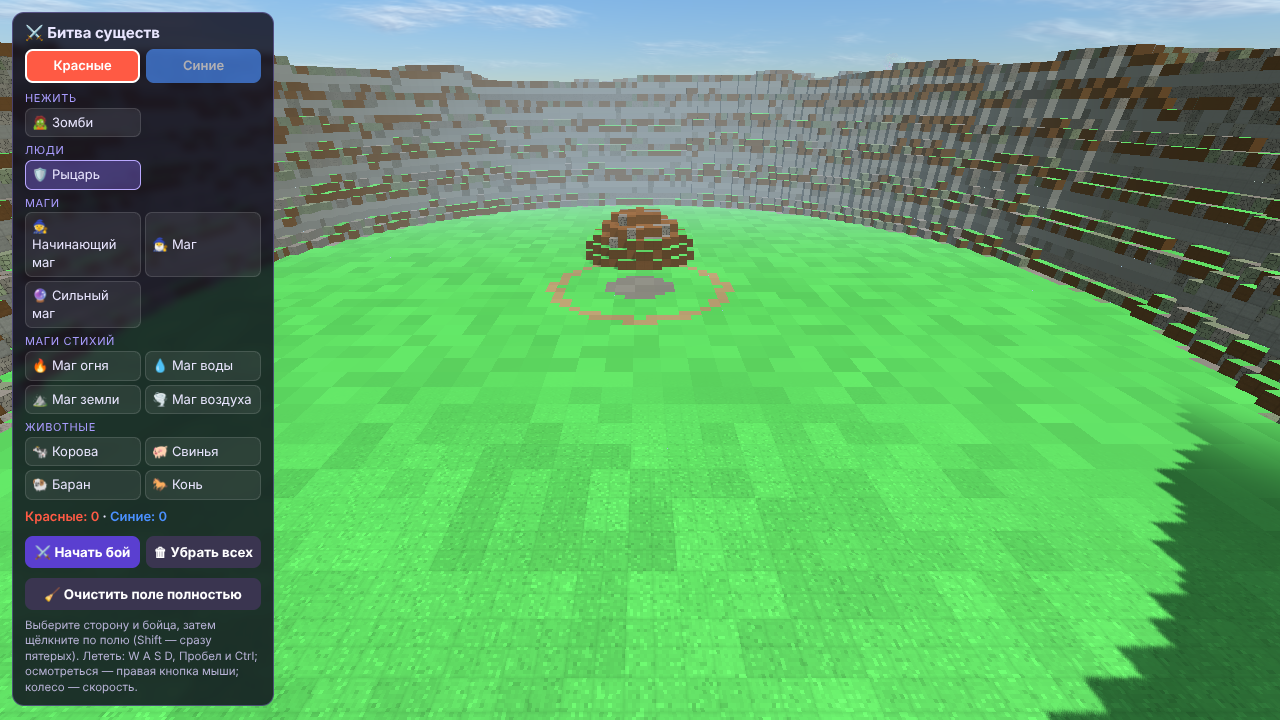
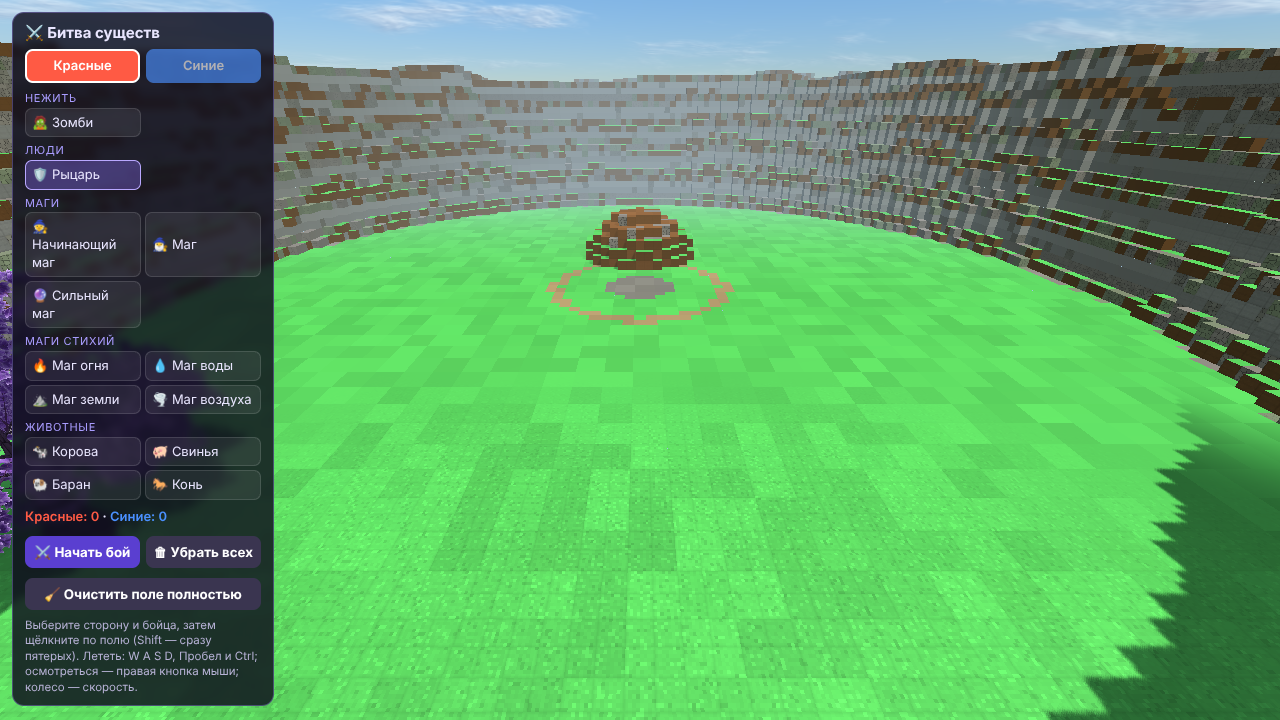
«Битва существ»: команды по сторонам арены с полосой посередине; маги воздуха поднимают и бросают существ; очистка убирает оружие; камера не мутнеет
Claude-Session: https://claude.ai/code/session_01Mpy7coMG4NKgr1SMVKnsCQ

Changed region(s): [[0.0, 0.3667, 0.1562, 0.8556]]

diff --git a/src/game/Brawl.js b/src/game/Brawl.js
@@ -9,7 +9,7 @@
  * Host only in a network game is not a thing here (a map for one); `authority` is always true.
  */
 import * as THREE from 'three';
-import { TEAMS, TEAM_IDS, masterOfTeam, teamOfMaster, fighterDef, BRAWL, pickEnemy, winnerOf, placePoints, foeId, isMage } from './BrawlRules.js';
+import { TEAMS, TEAM_IDS, masterOfTeam, teamOfMaster, fighterDef, BRAWL, pickEnemy, winnerOf, placePoints, foeId, isMage, teamAt } from './BrawlRules.js';
 import { TUTORIAL } from '../world/TutorialLand.js';
 import { elementalLook } from './ElementalTestSites.js';
 import { earthLook } from './EarthMagicRules.js';
@@ -32,6 +32,7 @@ export class Brawl {
         this._elemN = 0; // (…and the elemental mages' in theirs)
         this.onChange = null; // (the panel: counts, state)
         this._makeMarkers();
+        this._strip = null; // (the strip between the teams: made once the ground is there — _makeStrip)
         this._quiet();
     }
 
@@ -106,7 +107,7 @@ export class Brawl {
             zb.setThrall(true);
             zb.thrallOwner = masterOfTeam(team);
             zb.thrallUntil = Infinity;
-            zb.group.rotation.y = team === 'A' ? -Math.PI / 2 : Math.PI / 2;
+            zb.group.rotation.y = team === 'A' ? Math.PI / 2 : -Math.PI / 2; // (facing the other team: A looks to +x)
         } else if (def.kind === 'a') {
             const a = g.animals?._spawn(def.type, new THREE.Vector3(x, y, z), { yaw: team === 'A' ? -Math.PI / 2 : Math.PI / 2 });
             if (!a) { this.why = 'не получилось'; return null; }
@@ -179,7 +180,7 @@ export class Brawl {
      * → what was taken away {fighters, bodies, items, chunks}.
      */
     sweep() {
-        const g = this.game, out = { fighters: this.count(), bodies: 0, items: 0, chunks: 0, fires: 0 };
+        const g = this.game, out = { fighters: this.count(), bodies: 0, items: 0, chunks: 0, fires: 0, weapons: 0 };
         g.falling?.clear?.(); // (the pieces in the air land — then the ground is made again below them)
         out.fires = this._fireOut();
         this.clear();
@@ -196,6 +197,10 @@ export class Brawl {
         const loose = g.items?.loose;
         if (loose) for (const uid of [...loose.keys()]) { g.items.removeLoose(uid); out.items++; }
         out.chunks = g.terrain?.data?.resetModified?.() || 0;
+        this._stripToGround();
+        // (swords, axes, bows, shields lying about — what the knights dropped, what a blast threw: every weapon not held by a hand)
+        out.weapons = 0;
+        for (const w of [...(g.weapons?.weapons || [])]) { if (w.holder || g.fixedWeapons?.includes?.(w.id)) continue; g.weapons.remove(w); out.weapons++; }
         g.terrain?.data?.settling?.clear?.();
         this._changed();
         return out;
@@ -293,6 +298,80 @@ export class Brawl {
         }
     }
 
+    // ----------------------------------------------------------------- the air mage's lift
+    /** (LevitationMaxima.npcPlayer) The air mage `v` lifts the creature `ref` {k, id} of the other team: the game's own hold (Levitation.grab) raised by the wind. → true when taken. */
+    liftCreature(v, ref) {
+        const g = this.game, lev = g.levitation, a = v.elemental;
+        const c = lev?._creature(ref.k, ref.id);
+        if (!c || !a || c.lev || a.carry) return false;
+        if (!lev.grab(ref.k, c, v.id, 'right', 6)) return false;
+        a.carry = { ck: ref.k, c };
+        a.liftAck = true; a.liftHeld = true; // (held: after the time it is THROWN — ElementalMages: liftT, liftHeld)
+        return true;
+    }
+
+    /** (ElementalMages.endLift) The lift ends: `thr` {x, y, z} — the creature is thrown with it (the swing), none — it is let fall. */
+    throwCarried(v, cr, thr) {
+        const c = cr.c, L = c.lev;
+        if (!L || L.by !== v.id) return;
+        if (thr) L.vel.set(thr.x, thr.y, thr.z);
+        this.game.levitation.letGo(cr.ck, c, false);
+    }
+
+    /** (a few times a second) A carried creature that died or got away: the mage's hold ends, no throw. */
+    _watchCarry() {
+        const L = this.game.castleLife;
+        for (const e of this.roster.values()) {
+            if (!e.def.elemental) continue;
+            const v = L?.byId.get(e.id), a = v?.elemental;
+            if (!a?.carry) continue;
+            if (v.dead || !a.carry.c.lev || a.carry.c.lev.by !== v.id) { a.carry = null; a.liftHeld = false; }
+        }
+    }
+
+    // ------------------------------------------------------------------ the strip
+    /**
+     * The strip between the teams, lying on the ground (a ribbon that follows its bumps): a dashed white line in the middle, red on the left
+     * and blue on the right. One mesh, one small texture. Made once the land is there.
+     */
+    _makeStrip() {
+        const g = this.game, W = BRAWL.STRIP, Lz = BRAWL.EDGE * 2 + 6, N = 60;
+        const cv = document.createElement('canvas');
+        cv.width = 128; cv.height = 256;
+        const x = cv.getContext('2d');
+        const gr = x.createLinearGradient(0, 0, 128, 0);
+        gr.addColorStop(0, 'rgba(255,90,68,0.55)'); gr.addColorStop(0.42, 'rgba(255,90,68,0.12)');
+        gr.addColorStop(0.58, 'rgba(74,144,255,0.12)'); gr.addColorStop(1, 'rgba(74,144,255,0.55)');
+        x.fillStyle = gr; x.fillRect(0, 0, 128, 256);
+        x.fillStyle = 'rgba(255,255,255,0.85)';
+        for (let y = 0; y < 256; y += 32) x.fillRect(61, y, 6, 18); // (the dashed line of the middle)
+        x.fillStyle = 'rgba(255,255,255,0.5)';
+        x.fillRect(0, 0, 4, 256); x.fillRect(124, 0, 4, 256); // (the edges)
+        const tex = new THREE.CanvasTexture(cv);
+        tex.wrapT = THREE.RepeatWrapping; tex.repeat.set(1, Lz / 8);
+        tex.anisotropy = 4;
+        const geo = new THREE.PlaneGeometry(W, Lz, 1, N);
+        geo.rotateX(-Math.PI / 2);
+        const pos = geo.attributes.position;
+        for (let i = 0; i < pos.count; i++) pos.setY(i, this.groundAt(pos.getX(i), pos.getZ(i)) + 0.07);
+        pos.needsUpdate = true;
+        const mat = new THREE.MeshBasicMaterial({ map: tex, transparent: true, depthWrite: false, polygonOffset: true, polygonOffsetFactor: -2, side: THREE.DoubleSide, fog: false });
+        const m = new THREE.Mesh(geo, mat);
+        m.frustumCulled = false;
+        m.renderOrder = 4;
+        g.scene.add(m);
+        this._strip = m;
+    }
+
+    /** The ribbon follows the ground again (after the whole field was made clean: the craters are gone). */
+    _stripToGround() {
+        const m = this._strip;
+        if (!m) return;
+        const pos = m.geometry.attributes.position;
+        for (let i = 0; i < pos.count; i++) pos.setY(i, this.groundAt(pos.getX(i), pos.getZ(i)) + 0.07);
+        pos.needsUpdate = true;
+    }
+
     // --------------------------------------------------------------- markers
     /** A ring on the ground under each fighter in its team's colour (one InstancedMesh). */
     _makeMarkers() {
@@ -328,6 +407,7 @@ export class Brawl {
     // ----------------------------------------------------------------- frame
     update(dt) {
         this._frame++;
+        if (!this._strip && this._frame > 20 && this.game.terrain?.data?.landMade?.(0, 0) !== false) this._makeStrip();
         if (this.state === 'fight') {
             const w = winnerOf(this.aliveCount(), true);
             if (w) {
@@ -339,7 +419,7 @@ export class Brawl {
             }
         }
         if (this._frame % 2 === 0) this._updateMarkers();
-        if (this._frame % 12 === 3) this._feedFoes();
+        if (this._frame % 12 === 3) { this._feedFoes(); this._watchCarry(); }
         if (this._frame % 30 === 0) { // (no stranger on the field: a zombie nobody put there goes)
             for (const z of [...this.game.zombies]) if (!this.roster.has('z:' + z.id) && !z.isDying) this.game.removeZombie(z);
         }
@@ -353,6 +433,7 @@ export class Brawl {
     dispose() {
         try { this.clear(); } catch (e) { /* the game is going down: nothing to take off */ }
         this.game.scene.remove(this.markers);
+        if (this._strip) { this.game.scene.remove(this._strip); this._strip.geometry.dispose(); this._strip.material.map?.dispose(); this._strip.material.dispose(); }
         this.markers.geometry.dispose();
         this.markers.material.dispose();
     }

diff --git a/src/ui/BrawlPanel.js b/src/ui/BrawlPanel.js
@@ -2,13 +2,13 @@
  * BrawlPanel.js — the panel of «Битва существ» (Brawl.js): the team, whom to put, start, clear; a click on the field puts a fighter.
  * Plain DOM over the game; made when the mode starts, removed when the game ends.
  */
-import { TEAMS, TEAM_IDS, FIGHTERS, FIGHTER_GROUPS, BRAWL, placePoints } from '../game/BrawlRules.js';
+import { TEAMS, TEAM_IDS, FIGHTERS, FIGHTER_GROUPS, BRAWL, placePoints, teamAt } from '../game/BrawlRules.js';
 
 const CSS = `
 #brawl-panel{position:fixed;left:12px;top:12px;width:262px;max-height:calc(100vh - 24px);overflow:auto;z-index:60;background:rgba(14,12,28,.82);color:#e9e6ff;border:1px solid rgba(160,140,255,.35);border-radius:12px;padding:10px 12px;font:13px/1.35 system-ui,sans-serif;backdrop-filter:blur(4px);user-select:none}
 #brawl-panel h3{margin:0 0 6px;font-size:15px}
 #brawl-panel .bp-teams{display:flex;gap:6px;margin-bottom:8px}
-#brawl-panel .bp-team{flex:1;border:2px solid transparent;border-radius:8px;padding:6px 4px;cursor:pointer;color:#fff;font-weight:600;text-align:center;opacity:.65}
+#brawl-panel .bp-team{flex:1;border:2px solid transparent;border-radius:8px;padding:6px 4px;cursor:default;font-size:12px;color:#fff;font-weight:600;text-align:center;opacity:.65}
 #brawl-panel .bp-team.on{opacity:1;border-color:#fff}
 #brawl-panel .bp-g{margin:6px 0 2px;font-size:11px;letter-spacing:.06em;text-transform:uppercase;color:#a99cff}
 #brawl-panel .bp-grid{display:grid;grid-template-columns:1fr 1fr;gap:4px}
@@ -38,23 +38,22 @@ export class BrawlPanel {
         const root = (this.root = document.createElement('div'));
         root.id = 'brawl-panel';
         root.innerHTML = `<h3>⚔ Битва существ</h3>
-            <div class="bp-teams">${TEAM_IDS.map((t) => `<div class="bp-team" data-t="${t}" style="background:${TEAMS[t].css}">${TEAMS[t].label}</div>`).join('')}</div>
+            <div class="bp-teams"><div class="bp-team on" style="background:${TEAMS.A.css}">◀ ${TEAMS.A.label}: слева</div><div class="bp-team on" style="background:${TEAMS.B.css}">справа: ${TEAMS.B.label} ▶</div></div>
             ${FIGHTER_GROUPS.map((g) => `<div class="bp-g">${g}</div><div class="bp-grid">${FIGHTERS.filter((f) => f.group === g).map((f) => `<button class="bp-f" data-f="${f.id}">${f.icon} ${f.label}</button>`).join('')}</div>`).join('')}
             <div class="bp-cnt" id="bp-cnt"></div>
             <div class="bp-row"><button class="bp-btn" id="bp-start">⚔ Начать бой</button><button class="bp-btn alt" id="bp-clear">🗑 Убрать всех</button></div>
             <div class="bp-row"><button class="bp-btn alt" id="bp-sweep" title="Убирает бойцов, трупы, вещи, огонь и чинит землю после взрывов">🧹 Очистить поле полностью</button></div>
-            <div class="bp-hint">Выберите сторону и бойца, затем щёлкните по полю (Shift — сразу пятерых). Лететь: W A S D, Пробел и Ctrl; осмотреться — правая кнопка мыши; колесо — скорость.</div>`;
+            <div class="bp-hint">Выберите бойца и щёлкните по полю: слева от полосы он будет в красной команде, справа — в синей (Shift — сразу пятерых). Лететь: W A S D, Пробел и Ctrl; осмотреться — правая кнопка мыши; колесо — скорость.</div>`;
         document.body.appendChild(root);
         document.body.classList.add('brawl-on'); // (the hero's bars, slots, minimap and the camera window are of no use to a spectator)
         const banner = (this.banner = document.createElement('div'));
         banner.id = 'brawl-banner';
         document.body.appendChild(banner);
         root.addEventListener('mousedown', (e) => e.stopPropagation());
-        root.querySelectorAll('.bp-team').forEach((el) => { el.onclick = () => { this.team = el.dataset.t; this._sync(); }; });
         root.querySelectorAll('.bp-f').forEach((el) => { el.onclick = () => { this.pick = el.dataset.f; this._sync(); }; });
         root.querySelector('#bp-start').onclick = () => { if (!game.brawl.start()) this._say(game.brawl.why); };
         root.querySelector('#bp-clear').onclick = () => game.brawl.clear();
-        root.querySelector('#bp-sweep').onclick = () => { const r = game.brawl.sweep(); this._say(`Поле чистое (убрано: бойцов ${r.fighters}, тел ${r.bodies}, вещей ${r.items}, огней ${r.fires}, исправлено участков земли ${r.chunks})`); };
+        root.querySelector('#bp-sweep').onclick = () => { const r = game.brawl.sweep(); this._say(`Поле чистое (убрано: бойцов ${r.fighters}, тел ${r.bodies}, вещей ${r.items}, оружия ${r.weapons}, огней ${r.fires}, исправлено участков земли ${r.chunks})`); };
         this._down = null;
         this._onDown = (e) => { if (e.button === 0) this._down = { x: e.clientX, y: e.clientY, shift: e.shiftKey }; };
         this._onUp = (e) => {
@@ -77,12 +76,13 @@ export class BrawlPanel {
         const g = this.game, p = g.spectator?.pick(cx, cy, g.camera);
         if (!p) return;
         if (g.brawl.state === 'over') g.brawl.clear();
-        const pts = placePoints(p.x, p.z, group ? BRAWL.GROUP : 1);
-        for (const q of pts) if (!g.brawl.spawn(this.pick, this.team, q.x, q.z)) { this._say(g.brawl.why); break; }
+        const team = teamAt(p.x);
+        if (!team) { this._say('Это полоса между командами: ставьте бойцов слева (красные) или справа (синие)'); return; }
+        const pts = placePoints(p.x, p.z, group ? BRAWL.GROUP : 1, Math.random, team);
+        for (const q of pts) if (!g.brawl.spawn(this.pick, team, q.x, q.z)) { this._say(g.brawl.why); break; }
     }
 
     _sync() {
-        this.root.querySelectorAll('.bp-team').forEach((el) => el.classList.toggle('on', el.dataset.t === this.team));
         this.root.querySelectorAll('.bp-f').forEach((el) => el.classList.toggle('on', el.dataset.f === this.pick));
     }
 

diff --git a/src/game/BrawlRules.js b/src/game/BrawlRules.js
@@ -2,7 +2,7 @@
  * BrawlRules.js — «Битва существ» (карты → «Битва существ»): the pure rules. No THREE, no game.
  *
  * The author 16.11: «можно будет игроку спавнить разных магов, обычных или стихий, зомби, животных — и заставлять сражаться.
- * Игрок просто действует как камера: наблюдает, ходит мышкой и клавиатурой, камера (веб-камера) не нужна». Two teams, A and B.
+ * Игрок просто действует как камера: наблюдает, ходит мышкой и клавиатурой, камера (веб-камера) не нужна». Two teams, A and B: by the SIDE of the field the fighter is put on (a strip between them, BRAWL.STRIP), not by a button (the author 17.11).
  *
  * Elemental mages are the game's REAL ones (their own brain, poses, auras, spells: ElementalMages.js, EarthMages.js); their foe is a pseudo player id
  * `bf|k|id` that CastleLife._playerPos resolves to the enemy creature's place (Brawl.foePos).
@@ -52,11 +52,24 @@ export const FIGHTER_GROUPS = [...new Set(FIGHTERS.map((f) => f.group))];
 
 export const BRAWL = {
     MAX: 60, // fighters on the field at most (the arena is 84 m across: more is a heap, and the frame pays for each)
+    STRIP: 6, // m: the strip between the teams (nobody is put on it): the left half of the field (x < 0, seen from the start camera) is the red team's, the right half the blue's
     GROUP: 5, // Shift+click: this many at once
     GROUP_R: 3.2, // m: the spread of such a group
     EDGE: 38, // m: no one is put farther than this from the middle (the meadow is 42 m)
     RESTART_S: 6, // s the banner of the winners stays
 };
+
+/** The team a click at `x` puts the fighter on: the left of the strip — A (red), the right — B (blue), on the strip itself — none. */
+export function teamAt(x) {
+    const h = BRAWL.STRIP / 2;
+    return x < -h ? 'A' : x > h ? 'B' : null;
+}
+
+/** `x` kept on its own team's side of the strip (a group put near the strip does not cross it). */
+export function onSide(x, team) {
+    const h = BRAWL.STRIP / 2 + 1;
+    return team === 'A' ? Math.min(x, -h) : team === 'B' ? Math.max(x, h) : x;
+}
 
 /** The nearest living fighter of the OTHER team. list: [{k, id, team, x, z}]. → the entry or null. */
 export function pickEnemy(team, me, list) {
@@ -80,9 +93,10 @@ export function winnerOf(alive, started) {
 }
 
 /** Where a click puts `n` fighters: the point, or a ring of them round it (never beyond EDGE of the middle). → [{x, z}] */
-export function placePoints(x, z, n = 1, rnd = Math.random) {
+export function placePoints(x, z, n = 1, rnd = Math.random, team = null) {
     const out = [];
     const clamp = (px, pz) => {
+        px = onSide(px, team);
         const d = Math.hypot(px, pz);
         return d > BRAWL.EDGE ? { x: (px / d) * BRAWL.EDGE, z: (pz / d) * BRAWL.EDGE } : { x: px, z: pz };
     };

diff --git a/tests/unit/brawl-rules.test.js b/tests/unit/brawl-rules.test.js
@@ -1,7 +1,7 @@
 // «Битва существ» (BrawlRules.js): the teams, the field, the foe search, the mage's distance, the winner.
 import test from 'node:test';
 import assert from 'node:assert/strict';
-import { TEAMS, teamOfMaster, masterOfTeam, otherTeam, FIGHTERS, fighterDef, FIGHTER_GROUPS, pickEnemy, winnerOf, placePoints, BRAWL, foeId, foeRef, isMage } from '../../src/game/BrawlRules.js';
+import { TEAMS, teamOfMaster, masterOfTeam, otherTeam, FIGHTERS, fighterDef, FIGHTER_GROUPS, pickEnemy, winnerOf, placePoints, BRAWL, foeId, foeRef, isMage, teamAt, onSide } from '../../src/game/BrawlRules.js';
 import { WIZ_RANKS } from '../../src/game/WizardAI.js';
 
 test('a team is a pseudo-master and back; a real player is no team', () => {
@@ -66,6 +66,27 @@ test('a click puts one; Shift a group round it; never beyond the field', () => {
     for (const p of g) assert.ok(Math.hypot(p.x, p.z) < BRAWL.GROUP_R * 1.3);
     for (const p of placePoints(100, 0, 5)) assert.ok(Math.hypot(p.x, p.z) <= BRAWL.EDGE + 1e-9);
     assert.ok(Math.hypot(...Object.values(placePoints(-90, 90, 1)[0])) <= BRAWL.EDGE + 1e-9);
+});
+
+test('the team is the SIDE of the field: left red, right blue, nobody on the strip between them', () => {
+    const h = BRAWL.STRIP / 2;
+    assert.equal(teamAt(-20), 'A');
+    assert.equal(teamAt(20), 'B');
+    assert.equal(teamAt(0), null);
+    assert.equal(teamAt(-h + 0.01), null);
+    assert.equal(teamAt(h - 0.01), null);
+    assert.equal(teamAt(-h - 0.01), 'A');
+    assert.equal(teamAt(h + 0.01), 'B');
+});
+
+test('a group put near the strip never crosses it', () => {
+    const h = BRAWL.STRIP / 2;
+    for (let k = 0; k < 40; k++) {
+        for (const q of placePoints(-h - 1.2, 3, 5, Math.random, 'A')) assert.ok(teamAt(q.x) === 'A', 'A stays left: ' + q.x);
+        for (const q of placePoints(h + 1.2, 3, 5, Math.random, 'B')) assert.ok(teamAt(q.x) === 'B', 'B stays right: ' + q.x);
+    }
+    assert.ok(onSide(0, 'A') < -h && onSide(0, 'B') > h);
+    assert.equal(onSide(5, null), 5);
 });
 
 test('teams are two and distinct', () => {

diff --git a/src/game/ElementalMages.js b/src/game/ElementalMages.js
@@ -272,7 +272,8 @@ export class ElementalMages {
  throwOf(v,foe){const t=throwVector(v.x,v.z,foe.x,foe.z,Math.random());return {x:t.x,y:t.y,z:t.z};}
  liftedBy(by,on){if(!this.game.authority)return;const v=this.game.castleLife?.byId?.get(by);if(v?.element==='air'&&v.elemental){v.elemental.liftAck=true;v.elemental.liftHeld=!!on;}}
  /** The lift ends: dropped, or (`thr`: a velocity) THROWN — the swing, the body flies; the net message carries the throw to a guest. */
- endLift(v,thr=null){const g=this.game,a=v.elemental;a.liftT=0;a.cycle++;g.sync?.lev?.('p',v.foe,'right',0,false,false,v.id,thr);if(g.levitation?.lifted?.by===v.id){if(thr)g.levitation.throwMe(v.id,thr);else g.levitation.dropMe(false);}
+ endLift(v,thr=null){const g=this.game,a=v.elemental;a.liftT=0;a.cycle++;if(a.carry){const cr=a.carry;a.carry=null;g.brawl?.throwCarried(v,cr,thr);} // (a creature held by the wind: thrown or dropped — Brawl)
+  g.sync?.lev?.('p',v.foe,'right',0,false,false,v.id,thr);if(g.levitation?.lifted?.by===v.id){if(thr)g.levitation.throwMe(v.id,thr);else g.levitation.dropMe(false);}
   if(thr){this.phase(v,'Sweep');a.fired=true;a.t=.2;v.castT=.5;g.sound?.spellCast?.('WindImpulseMaxima',_o.set(v.x,v.y+2,v.z));}else this.phase(v,'Coil');}
  /**
   * The fire mage's HANGING beam (the author 15.11: «когда он пуляет свой луч, он может продолжать делать какие-то движения, но луч продолжается, будет висеть в воздухе и пуляться в игрока»):

diff --git a/src/game/SpectatorCam.js b/src/game/SpectatorCam.js
@@ -77,6 +77,7 @@ export class SpectatorCam {
     /** Put the camera there, and the (hidden) hero on the ground below it. */
     apply(camera, dt) {
         this.step(dt);
+        this._cleanse();
         camera.position.copy(this.pos);
         camera.quaternion.setFromEuler(_e.set(this.pitch, this.yaw, 0));
         const ch = this.game.character;
@@ -85,6 +86,16 @@ export class SpectatorCam {
             ch.group.position.set(this.pos.x, g, this.pos.z);
             ch.group.visible = false;
         }
+    }
+
+    /** Nothing may make the picture muddy, shaky, frozen or dark: no dizziness, shake, stun, ice, damage flash (a blast, a stunned hero, a fall). */
+    _cleanse() {
+        const g = this.game;
+        if (g.knock) { g.knock.dizzy = 0; g.knock.down = false; }
+        if (g.fx) g.fx.shake = 0;
+        const c = g.combat;
+        if (c && (c.stunLeft > 0 || c.frozenLeft > 0 || c.slowLeft > 0 || c.chill > 0)) c.clearEffects();
+        if (g.hud && this._flash !== false) { g.hud.setDizzy?.(0, g.renderer?.domElement); g.hud.setFrozenOverlay?.(0); }
     }
 
     /** The point of the ground under the mouse (client pixels): {x, z} | null. */

diff --git a/src/game/LevitationMaxima.js b/src/game/LevitationMaxima.js
@@ -41,6 +41,7 @@
  * «На кого и на что» (CLAUDE.md): MAXIMA_TARGETS below.
  */
 
+import { foeRef } from './BrawlRules.js';
 import { isDivine } from './DivineSword.js';
 import { isEnchanted } from '../world/EnchantedStone.js';
 import * as THREE from 'three';
@@ -839,6 +840,7 @@ export class LevitationMaxima {
         const g=this.game,fp=g.castleLife?._playerPos(to);
         if(!this.auth||!fp||v.dead||v.mana<LEV_MAX.COST+LEV_MAX.DRAIN*6||Math.hypot(fp.x-v.x,fp.z-v.z)>LEV_MAX.RANGE)return false;
         if(g.collision?.lineOfSight&&!g.collision.lineOfSight(v.x,v.y+2.7,v.z,fp.x,fp.y,fp.z,.2))return false;
+        if(foeRef(to)&&!g.brawl?.liftCreature(v,foeRef(to)))return false; // («Битва существ»: the foe is a creature of the other team — it is lifted by the same wind: Brawl.liftCreature)
         v.mana-=LEV_MAX.COST;v.mode='airLift';
         if(to===g.localId)g.levitation?.liftMe?.(v.id,'right',{mx:true,air:true});
         g.sync?.levMax?.({a:'p',by:v.id,from:v.id,to,side:'right',air:1});

diff --git a/src/game/Levitation.js b/src/game/Levitation.js
@@ -637,6 +637,12 @@ export class Levitation {
         const npc=g.castleLife?.byId?.get(by);
         if(npc){
             if(npc.dead||npc.stunT>0||npc.lev||npc.vy)return null;
+            const carry=npc.element==='air'?npc.elemental?.carry:null; // («Битва существ»: an air mage lifts a creature of the other team)
+            if(carry?.c.lev&&carry.c.lev.by===by){
+                if(npc.mode!=='airLift')return null;
+                const Lc=carry.c.lev,anchor=Lc.npcAnchor||(Lc.npcAnchor=Lc.target.clone());out.copy(anchor);out.y+=Math.min(15,Lc.age*2.8);
+                return out;
+            }
             if(npc.element==='air'&&this.lifted?.by===by){
                 if(npc.mode!=='airLift')return null;
                 const L=this.lifted,anchor=L.npcAnchor||(L.npcAnchor=L.target.clone());out.copy(anchor);out.y+=Math.min(15,L.age*2.8);
